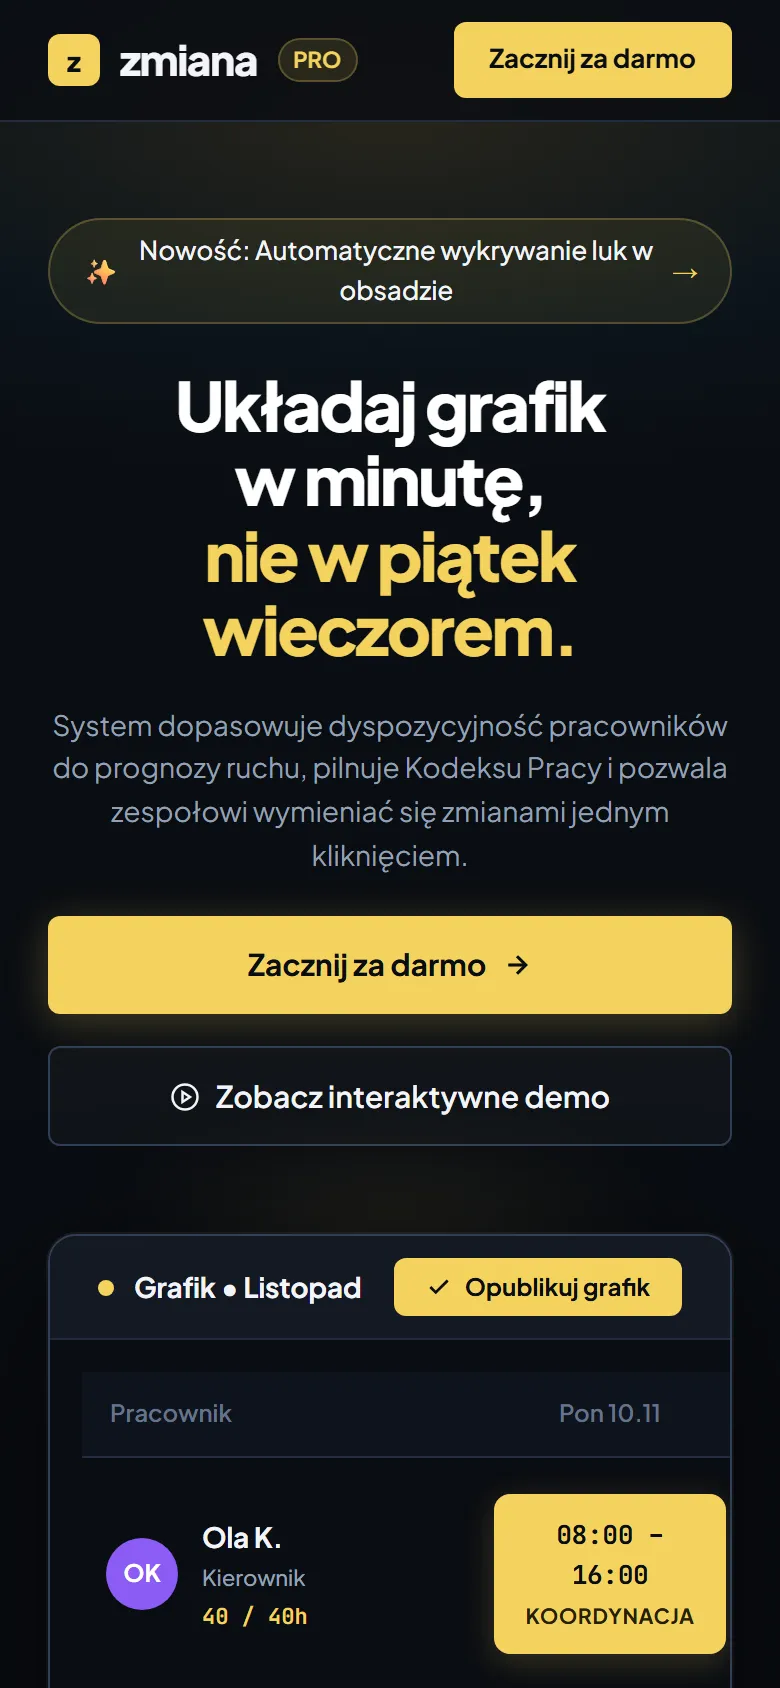
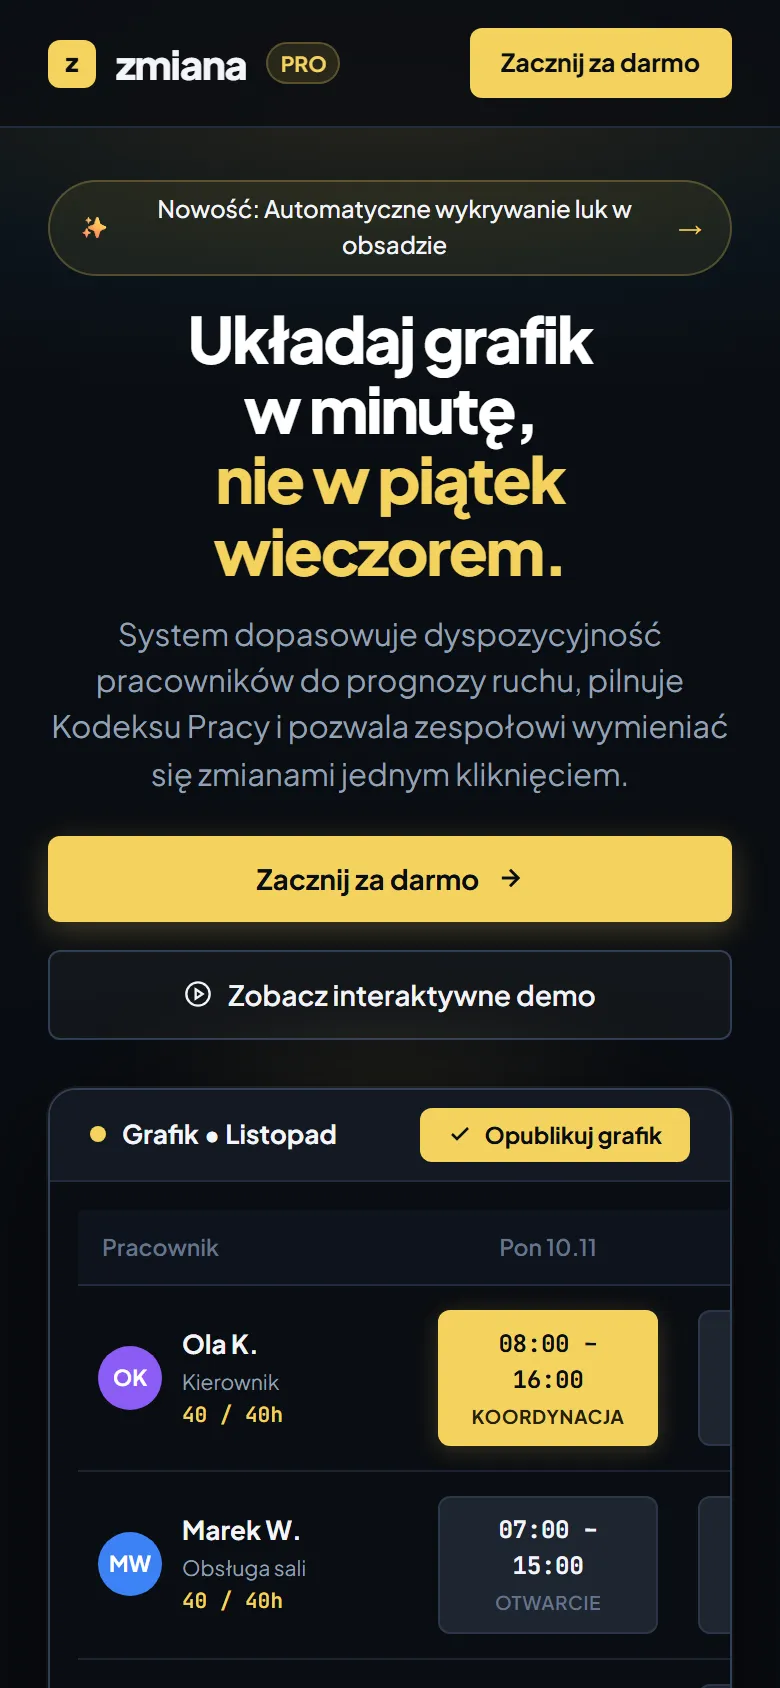
fix(concepts): eliminate dead margins, fix card cache desync with v2 assets

diff --git a/content/projects.ts b/content/projects.ts
@@ -33,10 +33,10 @@ export const conceptProjects: ConceptProject[] = [
     tags: ["Strona firmowa", "B2B", "Formularz zapytań"],
     serviceUrl: "/uslugi/strony-internetowe",
     serviceLabel: "Strony internetowe",
-    desktopImage: "/concepts/a-desktop.webp",
+    desktopImage: "/concepts/a-desktop-v2.webp",
     desktopAlt:
       "Koncepcja strony serwisu maszyn przemysłowych: techniczny nagłówek, parametry realizacji i formularz zapytania na pierwszym ekranie",
-    mobileImage: "/concepts/a-mobile.webp",
+    mobileImage: "/concepts/a-mobile-v2.webp",
     mobileAlt:
       "Widok mobilny koncepcji serwisu maszyn: zwarty układ formularza i natychmiastowy dostęp do telefonu alarmowego",
     disclaimer: "Firma i treści fikcyjne. Projekt koncepcyjny Studio Wzrostu.",
@@ -51,10 +51,10 @@ export const conceptProjects: ConceptProject[] = [
     tags: ["Landing page", "Produkt", "Jeden CTA"],
     serviceUrl: "/uslugi/landing-page",
     serviceLabel: "Landing page",
-    desktopImage: "/concepts/b-desktop.webp",
+    desktopImage: "/concepts/b-desktop-v2.webp",
     desktopAlt:
       "Koncepcja landing page aplikacji grafikowej: wyrazisty nagłówek, podgląd interfejsu grafiku i pojedynczy przycisk akcji",
-    mobileImage: "/concepts/b-mobile.webp",
+    mobileImage: "/concepts/b-mobile-v2.webp",
     mobileAlt:
       "Widok mobilny landing page aplikacji grafikowej: responsywny podgląd zmian i czytelny przycisk wypróbowania",
     disclaimer: "Firma i treści fikcyjne. Projekt koncepcyjny Studio Wzrostu.",
@@ -69,11 +69,11 @@ export const conceptProjects: ConceptProject[] = [
     tags: ["Redesign", "Przed i po", "Czytelność"],
     serviceUrl: "/uslugi/redesign-i-wydajnosc",
     serviceLabel: "Redesign i wydajność",
-    desktopImage: "/concepts/c-po.webp",
+    desktopImage: "/concepts/c-po-v2.webp",
     desktopAlt: "Koncepcja redesignu serwisu samochodowego po optymalizacji układu i typografii",
-    beforeImage: "/concepts/c-przed.webp",
+    beforeImage: "/concepts/c-przed-v2.webp",
     beforeAlt: "Stara wersja strony serwisu samochodowego przed modernizacją (chaotyczny układ)",
-    afterImage: "/concepts/c-po.webp",
+    afterImage: "/concepts/c-po-v2.webp",
     afterAlt: "Nowa wersja serwisu po redesignie: czysta typografia, wyrazisty nagłówek i natychmiastowy kontakt",
     disclaimer: "Firma i treści fikcyjne. Projekt koncepcyjny Studio Wzrostu.",
   },
